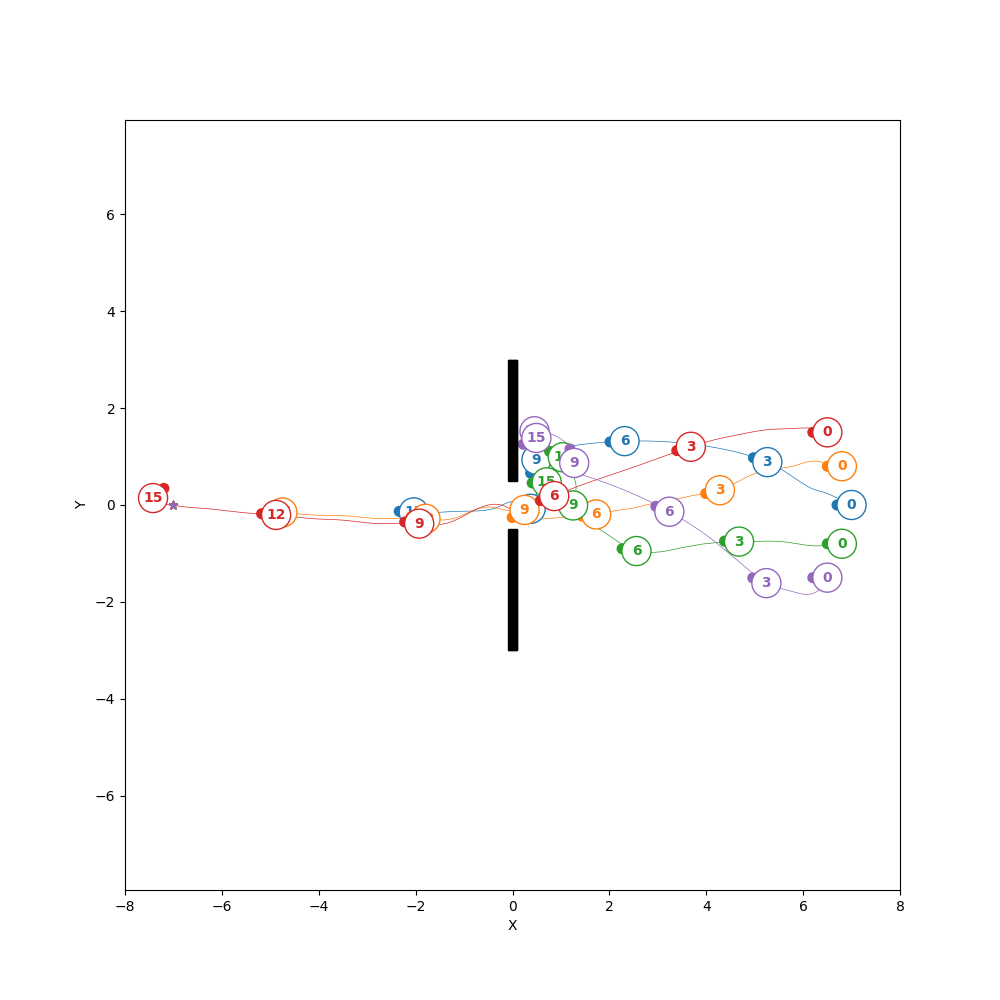
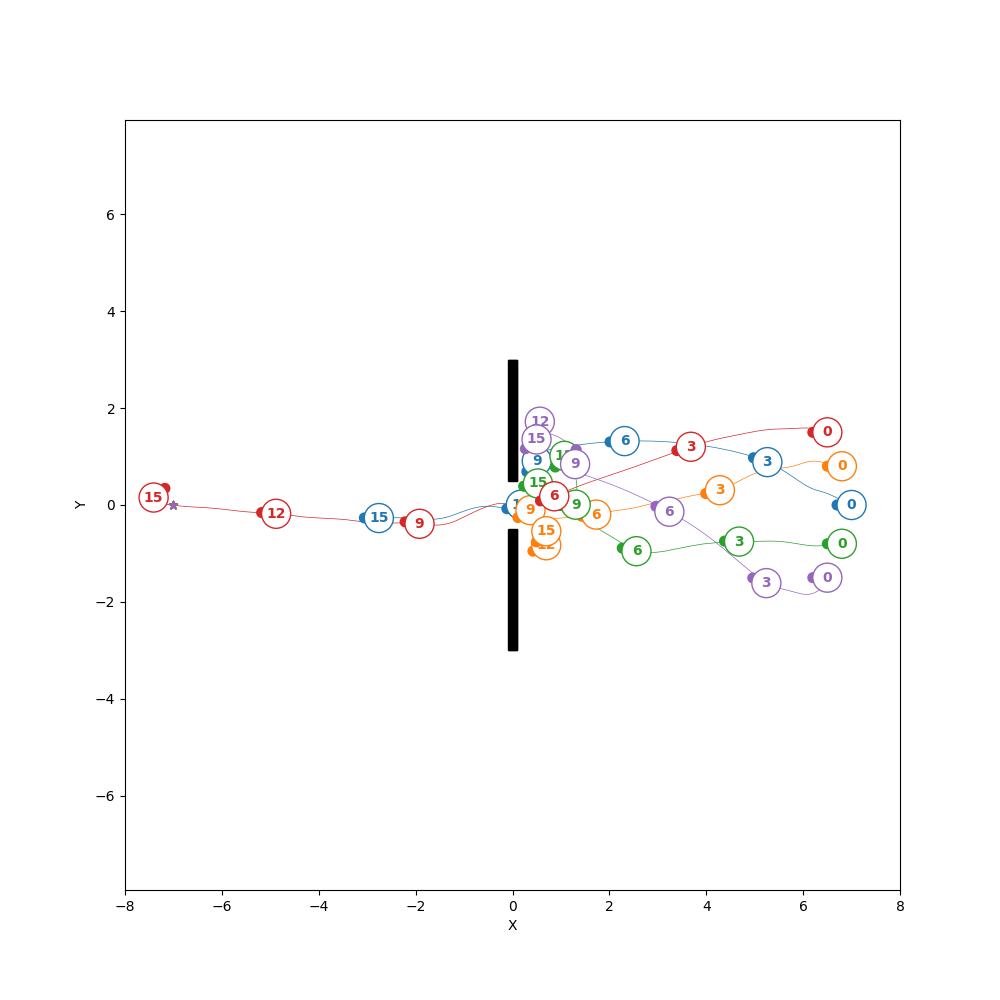
solve bug on torque force (limited input force norm)

Changed region(s): [[0.248, 0.403, 0.62, 0.558]]

diff --git a/example6.py b/example6.py
@@ -9,51 +9,33 @@ from jhsfm.hsfm import step
 from jhsfm.utils import *
 
 # Hyperparameters
-n_humans = 35
-traffic_length = 14
-traffic_height = 3
+n_humans = 15
+circle_radius = 7
 dt = 0.01
-end_time = 5
-np.random.seed(0) # For reproducibility
+end_time = 15
 
 # Initial conditions
 humans_state = np.zeros((n_humans, 6))
 humans_goal = np.zeros((n_humans, 2))
-humans_pos = []
+angle_width = (2 * jnp.pi) / (n_humans)
 for i in range(n_humans):
-    while True:
-        a = -(traffic_length/2 ) + .3
-        b = traffic_length/2 - .3
-        pos = np.array([(b - a) * np.random.random() + a, (np.random.random() - 0.5) * traffic_height], dtype=np.float64)
-        collide = False
-        for j in range(len(humans_pos)):
-            other_human_pos = humans_pos[j]
-            if np.linalg.norm(pos - other_human_pos) - .7 < 0: # This is  discomfort distance
-                collide = True 
-                break
-        if not collide:
-            humans_pos.append(pos)
-            ## State: (px, py, bvx, bvy, theta, omega)
-            humans_state[i,0] = pos[0]
-            humans_state[i,1] = pos[1]
-            humans_state[i,2] = 0
-            humans_state[i,3] = 0
-            humans_state[i,4] = jnp.pi
-            humans_state[i,5] = 0
-            # Goal: (gx, gy)
-            humans_goal[i,0] = -(traffic_length / 2)-3
-            humans_goal[i,1] = pos[1]
-            break
+    # State: (px, py, bvx, bvy, theta, omega)
+    humans_state[i,0] = circle_radius * jnp.cos(i * angle_width)
+    humans_state[i,1] = circle_radius * jnp.sin(i * angle_width)
+    humans_state[i,2] = 0
+    humans_state[i,3] = 0
+    humans_state[i,4] = -jnp.pi + i * angle_width
+    humans_state[i,5] = 0
+    # Goal: (gx, gy)
+    humans_goal[i,0] = -humans_state[i,0]
+    humans_goal[i,1] = -humans_state[i,1]
 humans_state = jnp.array(humans_state)
 humans_parameters = get_standard_humans_parameters(n_humans)
 humans_goal = jnp.array(humans_goal)
 # Obstacles
-static_obstacles = jnp.array([[[[-traffic_length/2-3,-traffic_height/2-1],[-traffic_length/2-3,-traffic_height/2-0.5]],[[-traffic_length/2-3,-traffic_height/2-0.5],[traffic_length/2,-traffic_height/2-0.5]],[[traffic_length/2,-traffic_height/2-0.5],[traffic_length/2,-traffic_height/2-1]],[[traffic_length/2,-traffic_height/2-1],[-traffic_length/2-3,-traffic_height/2-1]]],
-                              [[[-traffic_length/2-3,traffic_height/2+1],[-traffic_length/2-3,traffic_height/2+0.5]],[[-traffic_length/2-3,traffic_height/2+0.5],[traffic_length/2,traffic_height/2+0.5]],[[traffic_length/2,traffic_height/2+0.5],[traffic_length/2,traffic_height/2+1]],[[traffic_length/2,traffic_height/2+1],[-traffic_length/2-3,traffic_height/2+1]]]])
+humans_state = humans_state.at[1,:].set(humans_state[0,:] + 0.05)
+static_obstacles = jnp.array([[[[jnp.nan,jnp.nan],[jnp.nan,jnp.nan]]]]) # dummy obstacles
 static_obstacles_per_human = jnp.stack([static_obstacles for _ in range(len(humans_state))])
-# Make a human traverse obstacles (all obstacles for him are set to Nan)
-# human_that_traverses_obstacle = 0
-# static_obstacles_per_human = static_obstacles_per_human.at[human_that_traverses_obstacle,:].set(jnp.nan)
 
 # Dummy step - Warm-up (we first compile the JIT functions to avoid counting compilation time later)
 _ = step(humans_state, humans_goal, humans_parameters, static_obstacles_per_human, dt)
@@ -77,7 +59,7 @@ COLORS = list(mcolors.TABLEAU_COLORS.values())
 print("\nPlotting...")
 figure, ax = plt.subplots(figsize=(10,10))
 ax.axis('equal')
-ax.set(xlabel='X',ylabel='Y',xlim=[-traffic_length/2-4,traffic_length/2+1],ylim=[-traffic_height-1,traffic_height+1])
+ax.set(xlabel='X',ylabel='Y',xlim=[-circle_radius-1,circle_radius+1],ylim=[-circle_radius-1,circle_radius+1])
 for h in range(n_humans): 
     ax.plot(all_states[:,h,0], all_states[:,h,1], color=COLORS[h%len(COLORS)], linewidth=0.5, zorder=0)
     ax.scatter(humans_goal[h,0], humans_goal[h,1], marker="*", color=COLORS[h%len(COLORS)], zorder=2)
@@ -89,5 +71,5 @@ for h in range(n_humans):
         num = int(k*dt) if (k*dt).is_integer() else (k*dt)
         ax.text(all_states[k,h,0],all_states[k,h,1], f"{num}", color=COLORS[h%len(COLORS)], va="center", ha="center", size=10, zorder=1, weight='bold')
 for o in static_obstacles: ax.fill(o[:,:,0],o[:,:,1], facecolor='black', edgecolor='black', zorder=3)
-figure.savefig(os.path.join(os.path.dirname(__file__),".images",f"example3.png"), format='png')
+figure.savefig(os.path.join(os.path.dirname(__file__),".images",f"example1.png"), format='png')
 plt.show()

diff --git a/jhsfm/hsfm.py b/jhsfm/hsfm.py
@@ -1,8 +1,6 @@
 import jax.numpy as jnp
 from jax import jit, vmap, lax, debug
 
-# TODO: Add possibility to make a step without obstacles (for now a dummy obstacle is needed)
-
 @jit
 def wrap_angle(theta:float) -> float:
     """
@@ -197,10 +195,17 @@ def single_update(idx:int, humans_state:jnp.ndarray, human_goal:jnp.ndarray, par
     social_force = jnp.sum(vectorized_pairwise_social_force(self_state, humans_state, self_parameters, parameters), axis=0)
     # Obstacle force computation
     closest_points = vectorized_compute_obstacle_closest_point(self_state[:2], obstacles)
-    obstacle_force = jnp.sum(vectorized_compute_obstacle_force(self_state, closest_points, self_parameters), axis=0) / len(obstacles)
+    num_real_obstacles = jnp.sum(~jnp.isnan(closest_points[:,0]))
+    obstacle_force = lax.cond(
+        num_real_obstacles > 0,
+        lambda _: jnp.sum(vectorized_compute_obstacle_force(self_state, closest_points, self_parameters), axis=0) / num_real_obstacles,
+        lambda _: jnp.zeros((2,)),
+        None
+    )
     # Torque computation
     input_force = desired_force + social_force + obstacle_force
     input_force_norm = jnp.linalg.norm(input_force)
+    input_force_norm = jnp.min(jnp.array([input_force_norm, 1000])) # Limit force to avoid numerical issues
     input_force_angle = jnp.arctan2(input_force[1], input_force[0])
     inertia = (self_parameters[1] * self_parameters[0] * self_parameters[0]) / 2
     k_theta = inertia * self_parameters[17] * input_force_norm
@@ -224,7 +229,9 @@ def single_update(idx:int, humans_state:jnp.ndarray, human_goal:jnp.ndarray, par
             jnp.linalg.norm(updated_human_state[2:4]) > self_parameters[2], 
             lambda x: (x / jnp.linalg.norm(x)) * self_parameters[2], 
             lambda x: x, 
-            updated_human_state[2:4]))
+            updated_human_state[2:4]
+        )
+    )
     # DEBUGGING
     # debug.print("\n")
     # debug.print("jax.debug.print(closest_points) -> {x}", x=closest_points)
